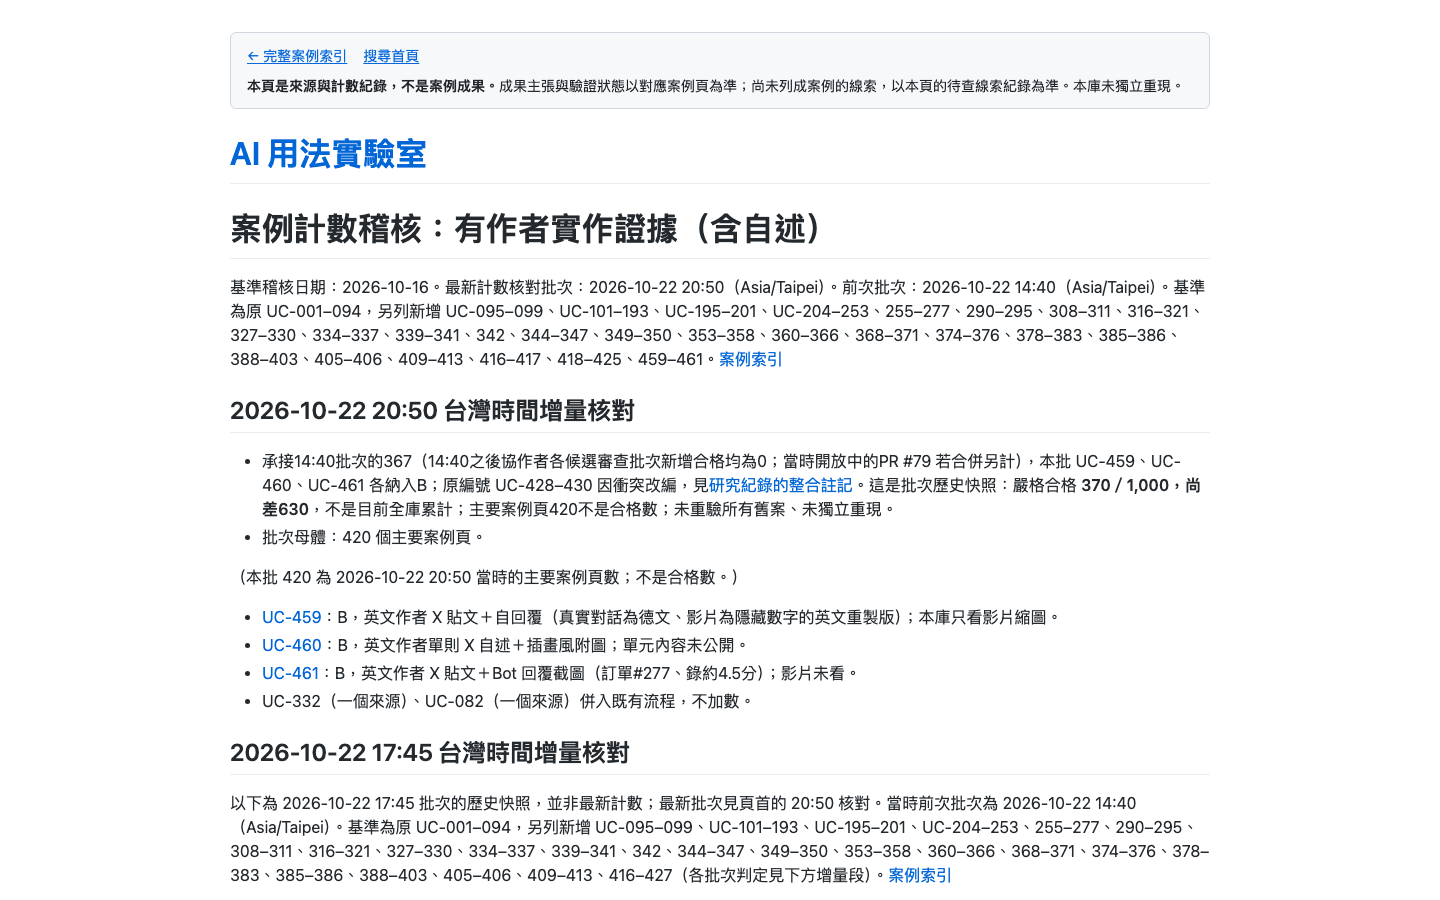
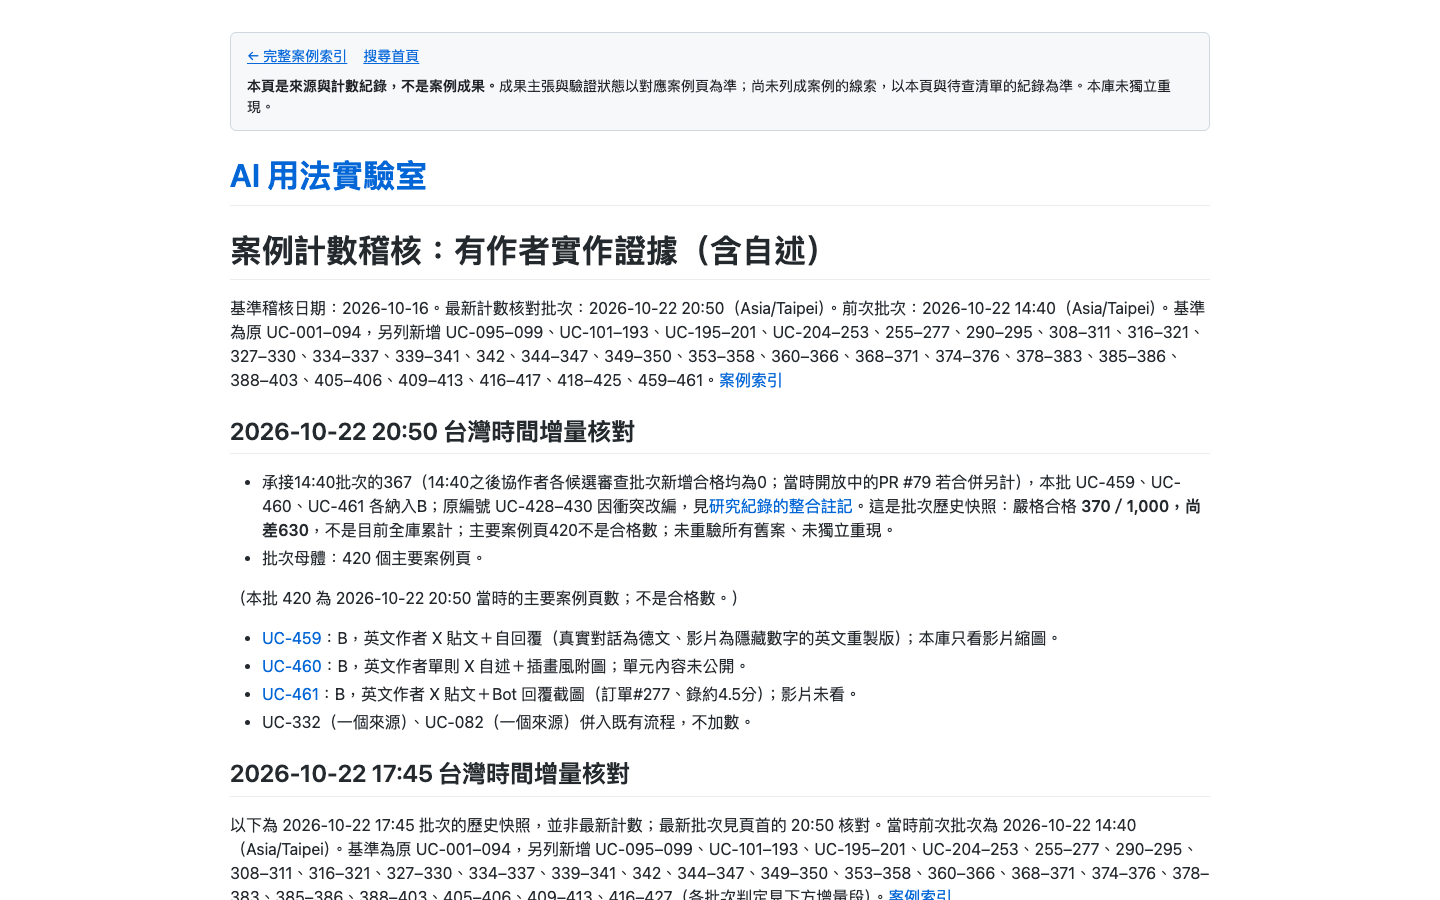
fix(reading): point unlisted leads at the pending list, not this page

Changed region(s): [[0.1562, 0.1556, 0.8438, 1.0], [0.6562, 0.0622, 0.8125, 0.1244], [0.1562, 0.0933, 0.1875, 0.1244]]

diff --git a/_includes/case-fallback-nav.html b/_includes/case-fallback-nav.html
@@ -35,7 +35,7 @@
     {%- endif %}
   </nav>
   {%- if is_source_page and is_case_page == false %}
-  <p class="case-fallback-claim"><strong>本頁是來源與計數紀錄，不是案例成果。</strong>成果主張與驗證狀態以對應案例頁為準；尚未列成案例的線索，以本頁的待查線索紀錄為準。本庫未獨立重現。</p>
+  <p class="case-fallback-claim"><strong>本頁是來源與計數紀錄，不是案例成果。</strong>成果主張與驗證狀態以對應案例頁為準；尚未列成案例的線索，以本頁與待查清單的紀錄為準。本庫未獨立重現。</p>
   {%- else %}
   <p class="case-fallback-claim"><strong>誰提出主張，不等於誰驗證。</strong>本庫未獨立重現。</p>
   {%- endif %}
